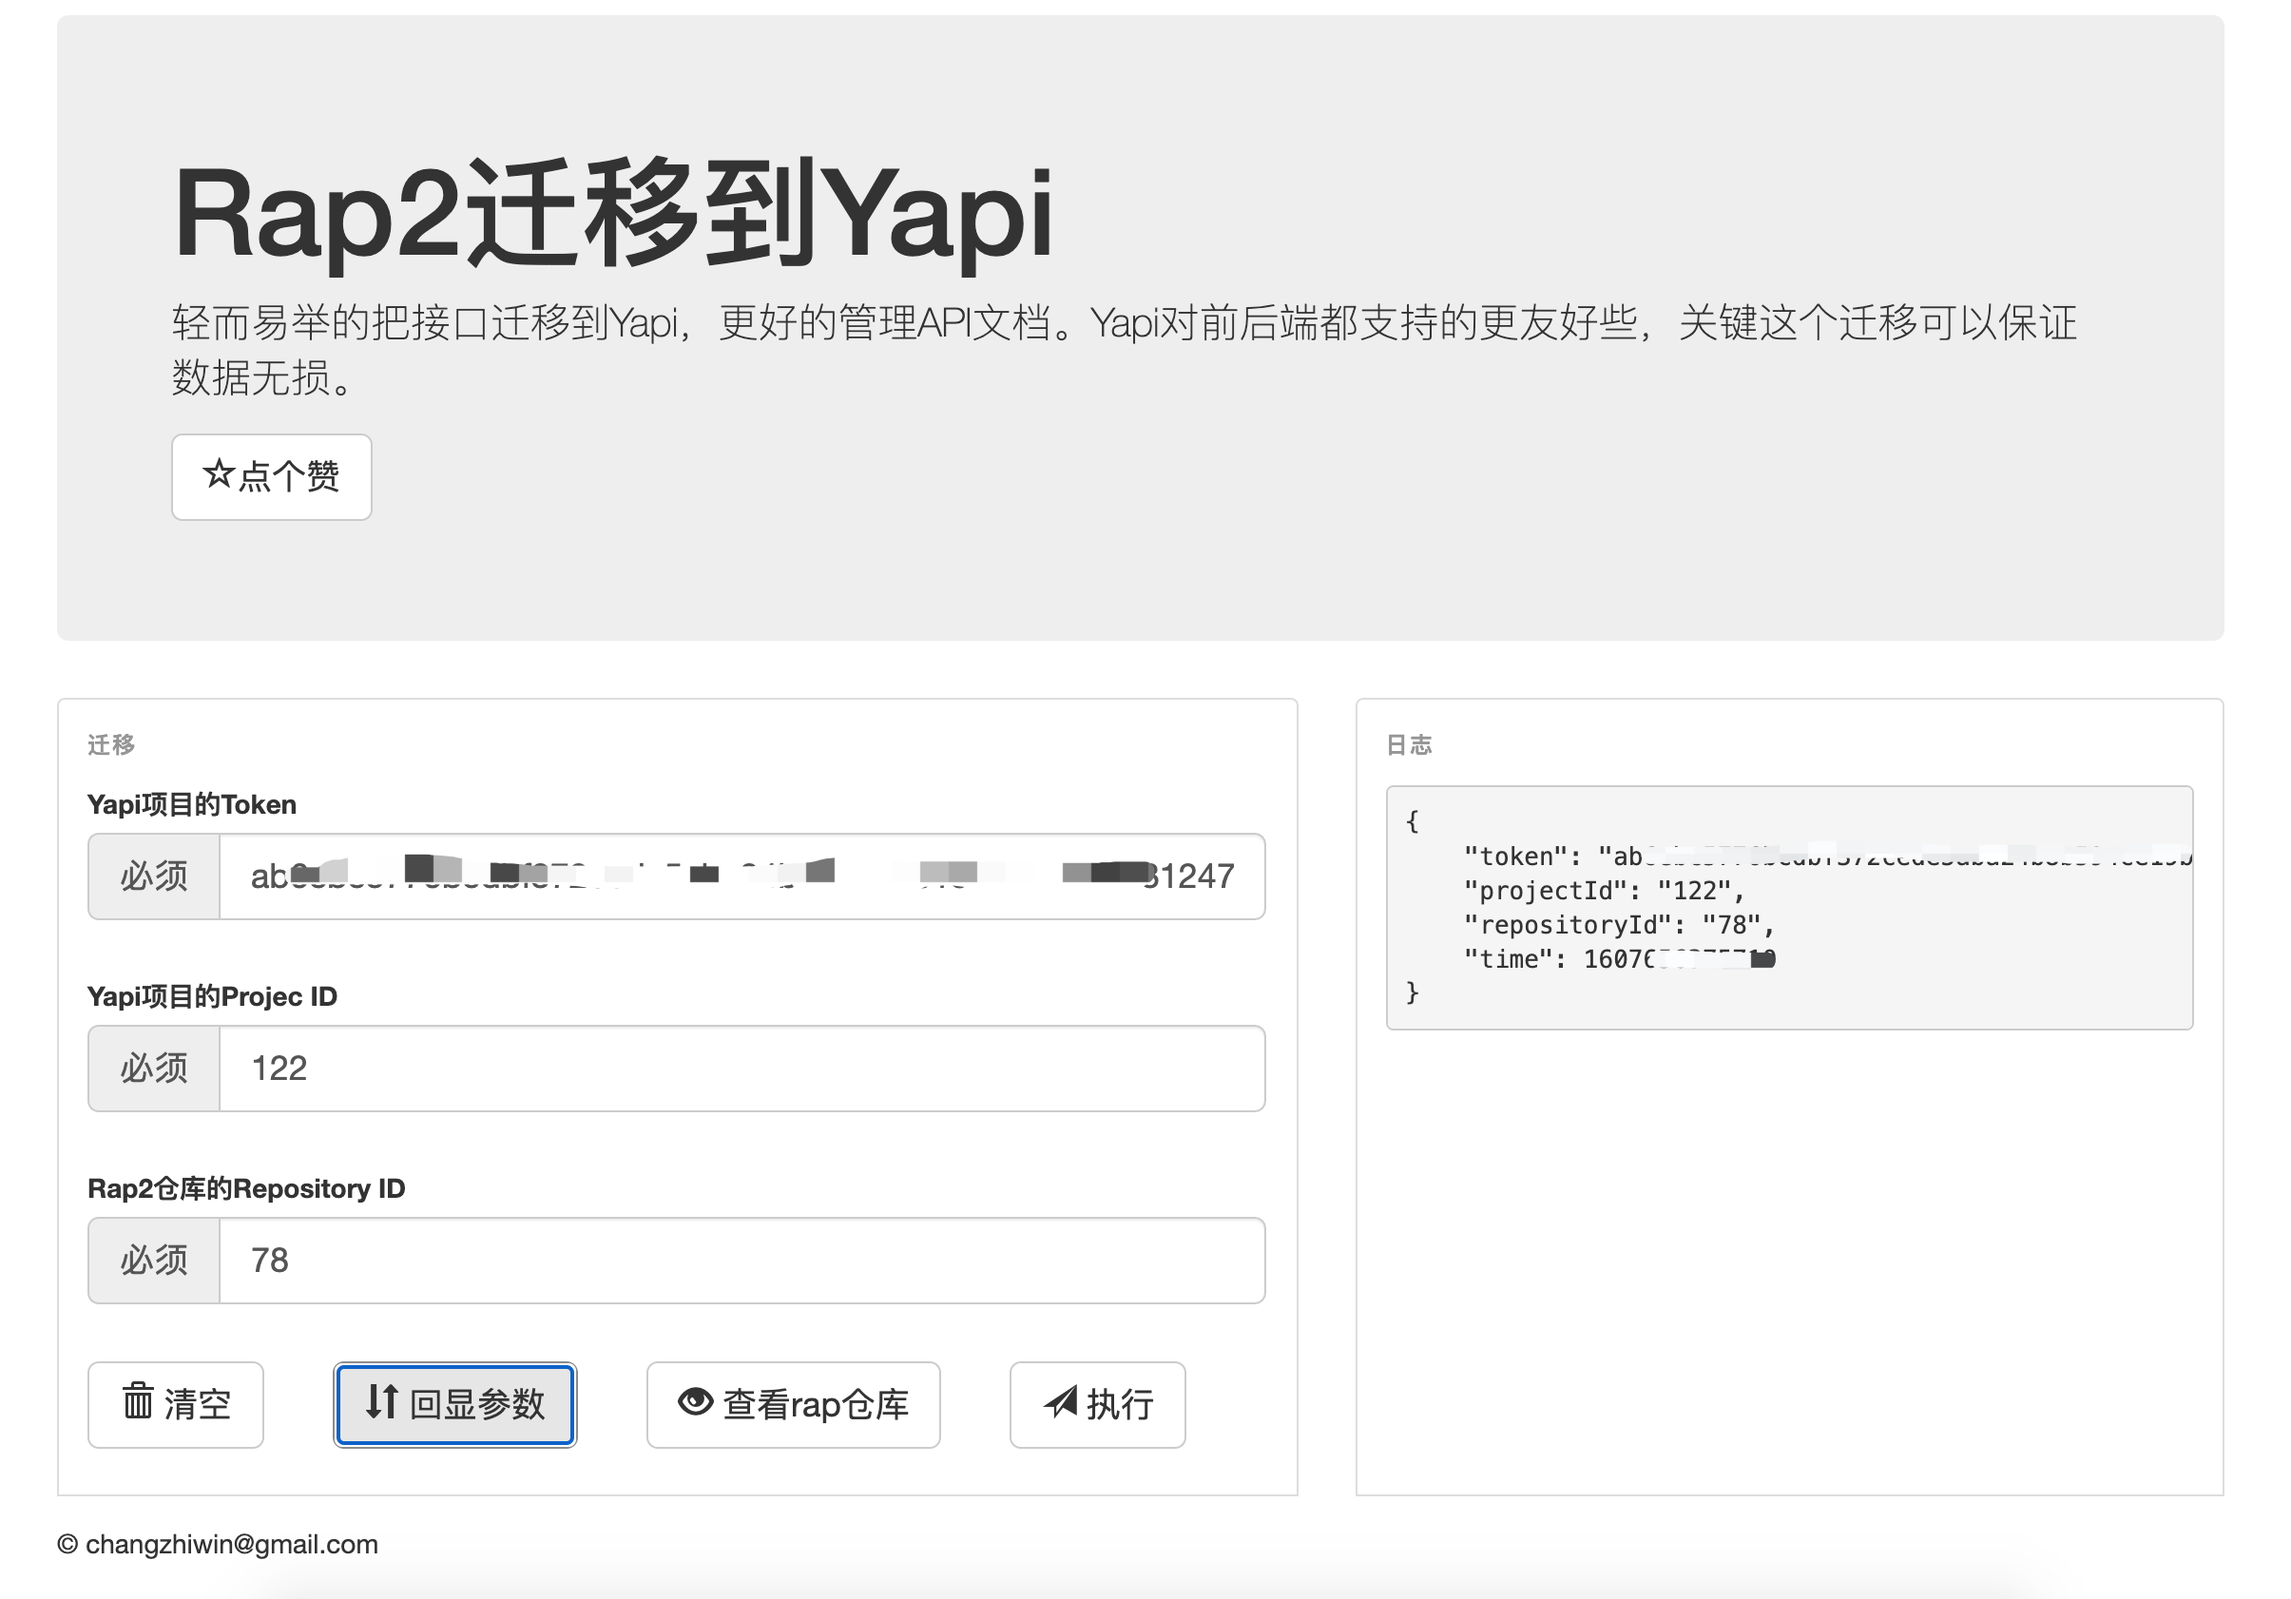
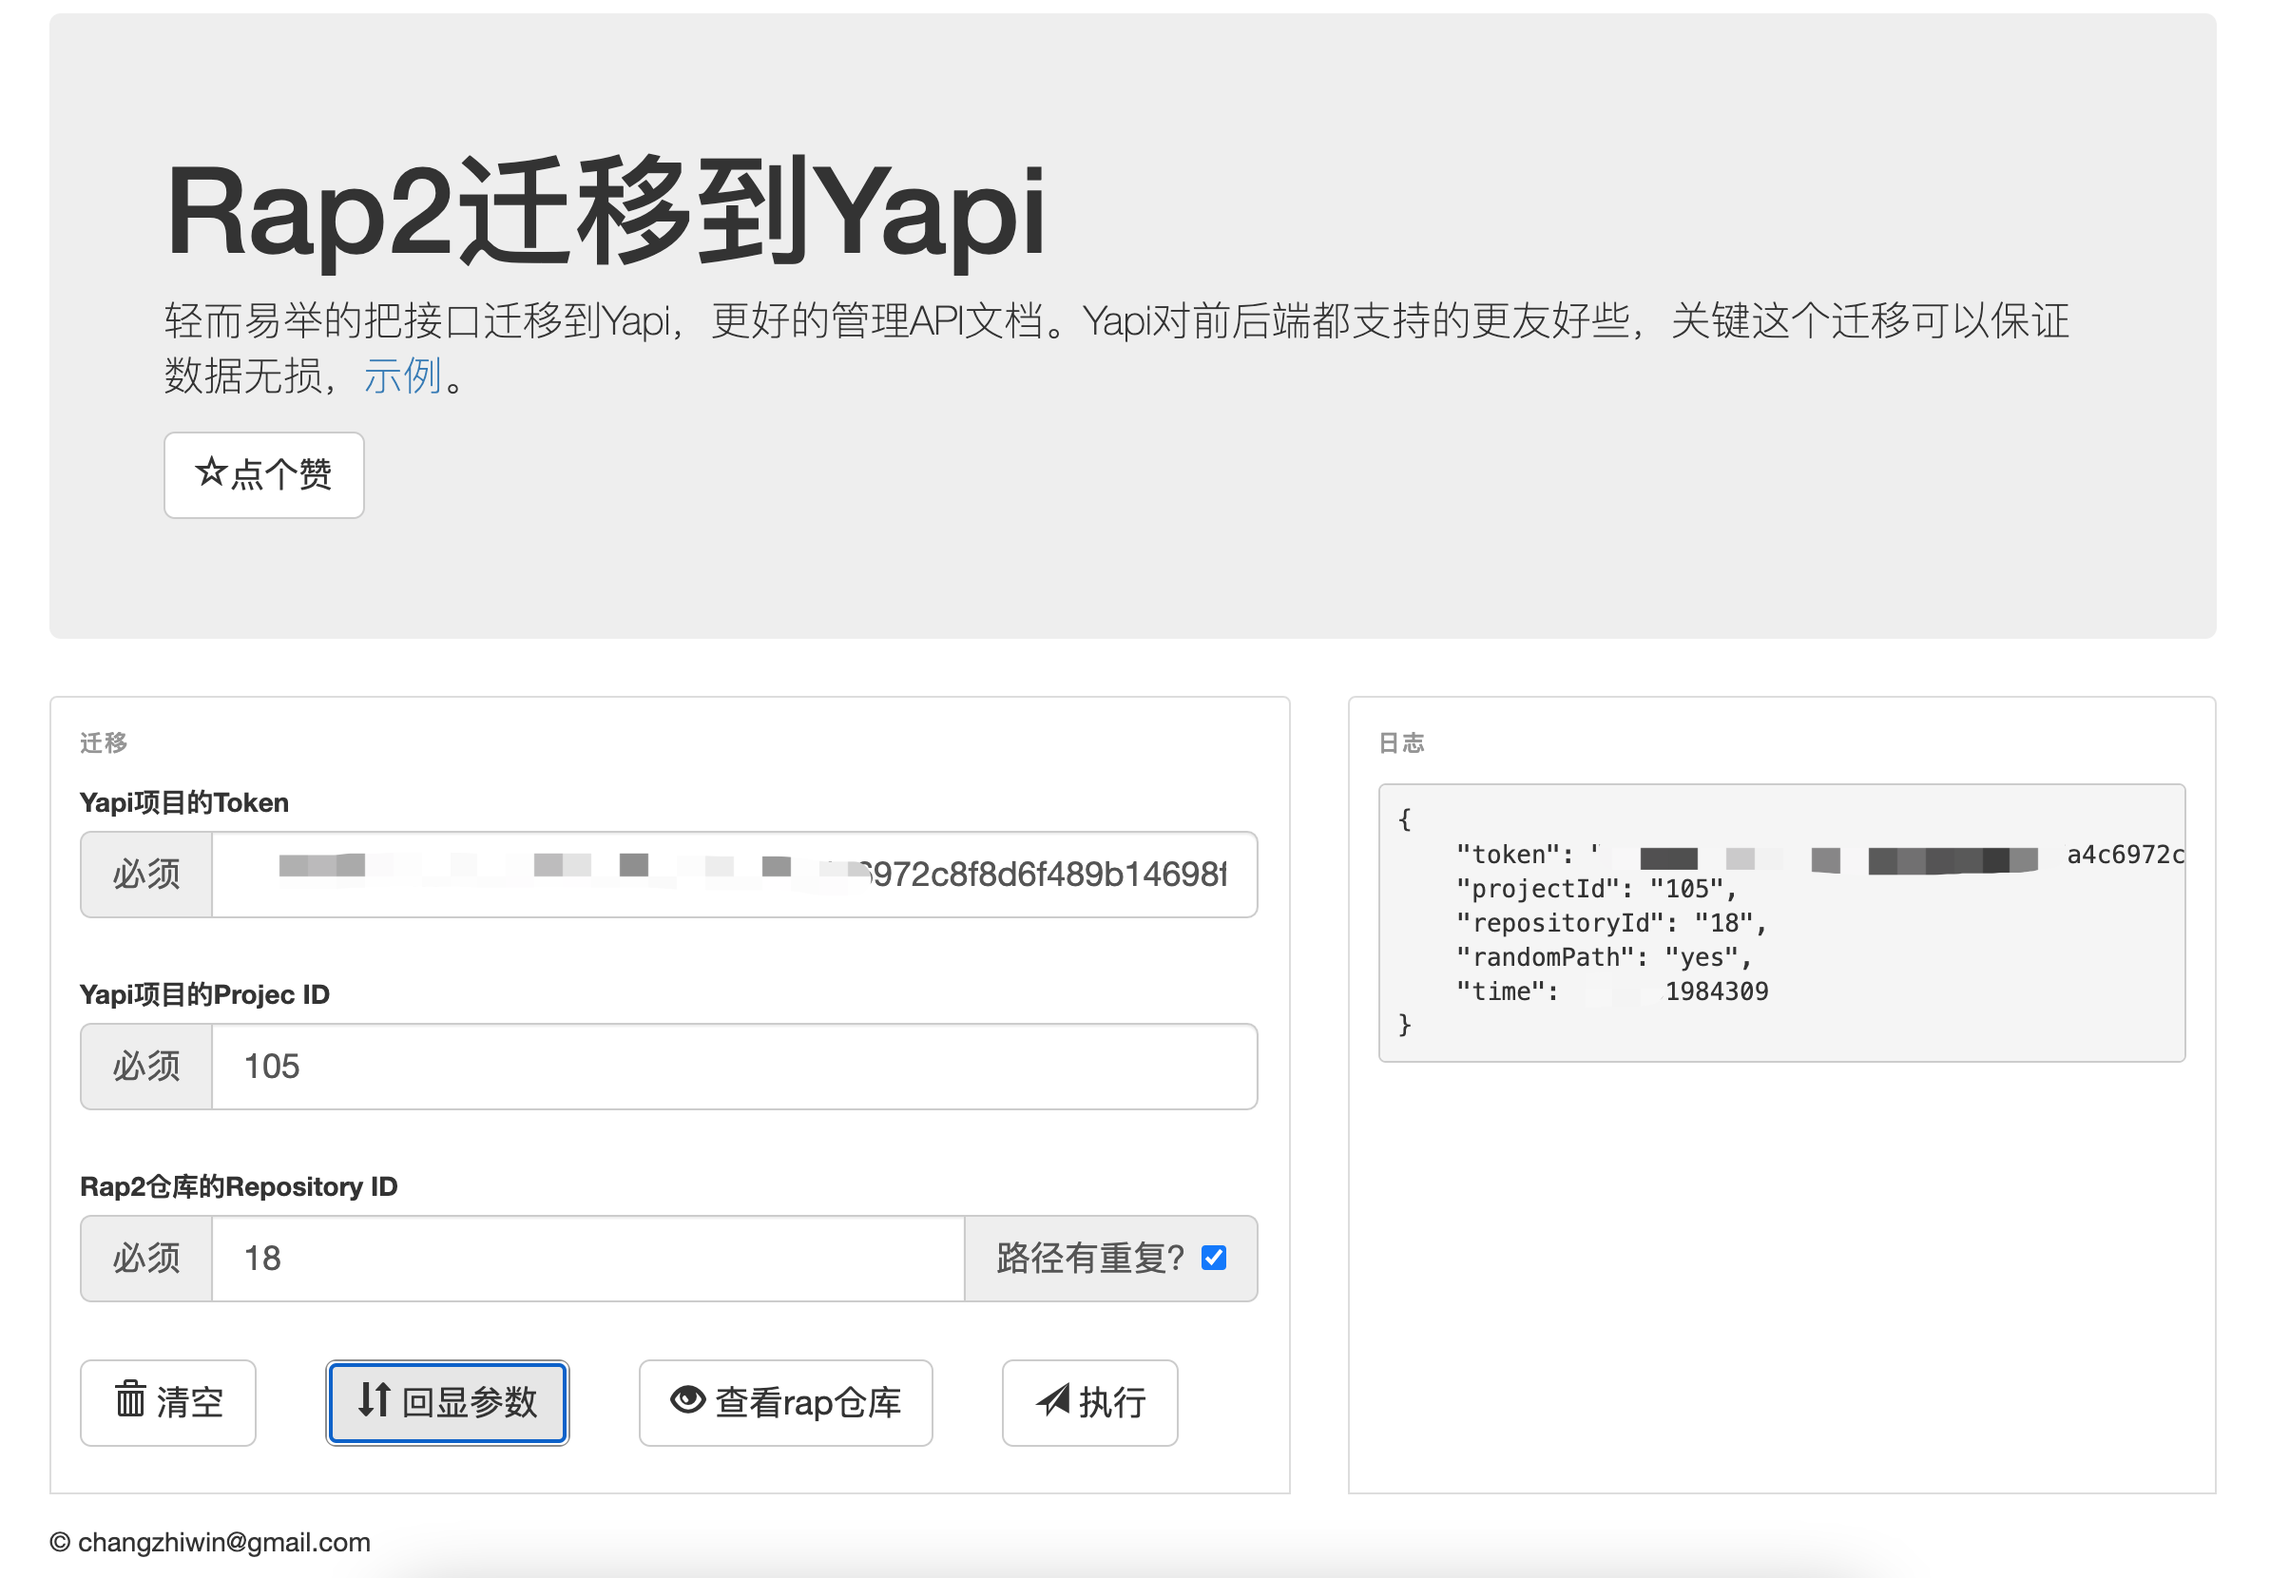
feat: 兼容重复路径;修复Get接口变成Post

diff --git a/static/index.html b/static/index.html
@@ -27,6 +27,7 @@
     </style>
     <link rel="stylesheet" href="https://cdn.jsdelivr.net/npm/bootstrap@3.3.7/dist/css/bootstrap.min.css" integrity="sha384-BVYiiSIFeK1dGmJRAkycuHAHRg32OmUcww7on3RYdg4Va+PmSTsz/K68vbdEjh4u" crossorigin="anonymous">
     <link href="./css/docs.min.css" rel="stylesheet">
+    <link rel="shortcut icon" href="/img/favicon.ico">
   </head>
   <body>
     <div class="container" id='app'>
@@ -57,6 +58,9 @@
             <div class="input-group input-group-lg">
               <span class="input-group-addon" id="sizing-addon1">必须</span>
               <input type="text" v-model="repositoryId" class="form-control" placeholder="Repository ID" aria-describedby="sizing-addon1">
+              <span class="input-group-addon">
+                路径有重复？<input type="checkbox" v-model="hasRepeat">
+              </span>
             </div>
             <br>
             
@@ -109,6 +113,7 @@
         token: '',
         projectId: '',
         repositoryId: '',
+        hasRepeat: false,
         logs: "",
         loading: false
       },
@@ -118,6 +123,7 @@
           this.projectId = ''
           this.repositoryId = ''
           this.logs = ""
+          this.hasRepeat = false
         },
 
         fetchRepository: async function (event) {
@@ -138,7 +144,8 @@
             params: {
               token: this.token,
               projectId: this.projectId,
-              repositoryId: this.repositoryId
+              repositoryId: this.repositoryId,
+              randomPath: this.hasRepeat ? 'yes' : null
             }
           })
 

diff --git a/server/utils/data-convert.js b/server/utils/data-convert.js
@@ -214,7 +214,8 @@ function fromRequestData(request) {
     })
   })
 
-  req_body_other = JSON.stringify( arrayToJson(body) )
+  // fix: 所有迁移的接口都是post；有body参数才需要填充
+  body.length && ( req_body_other = JSON.stringify( arrayToJson(body) ) )
 
   return {
     req_headers,
